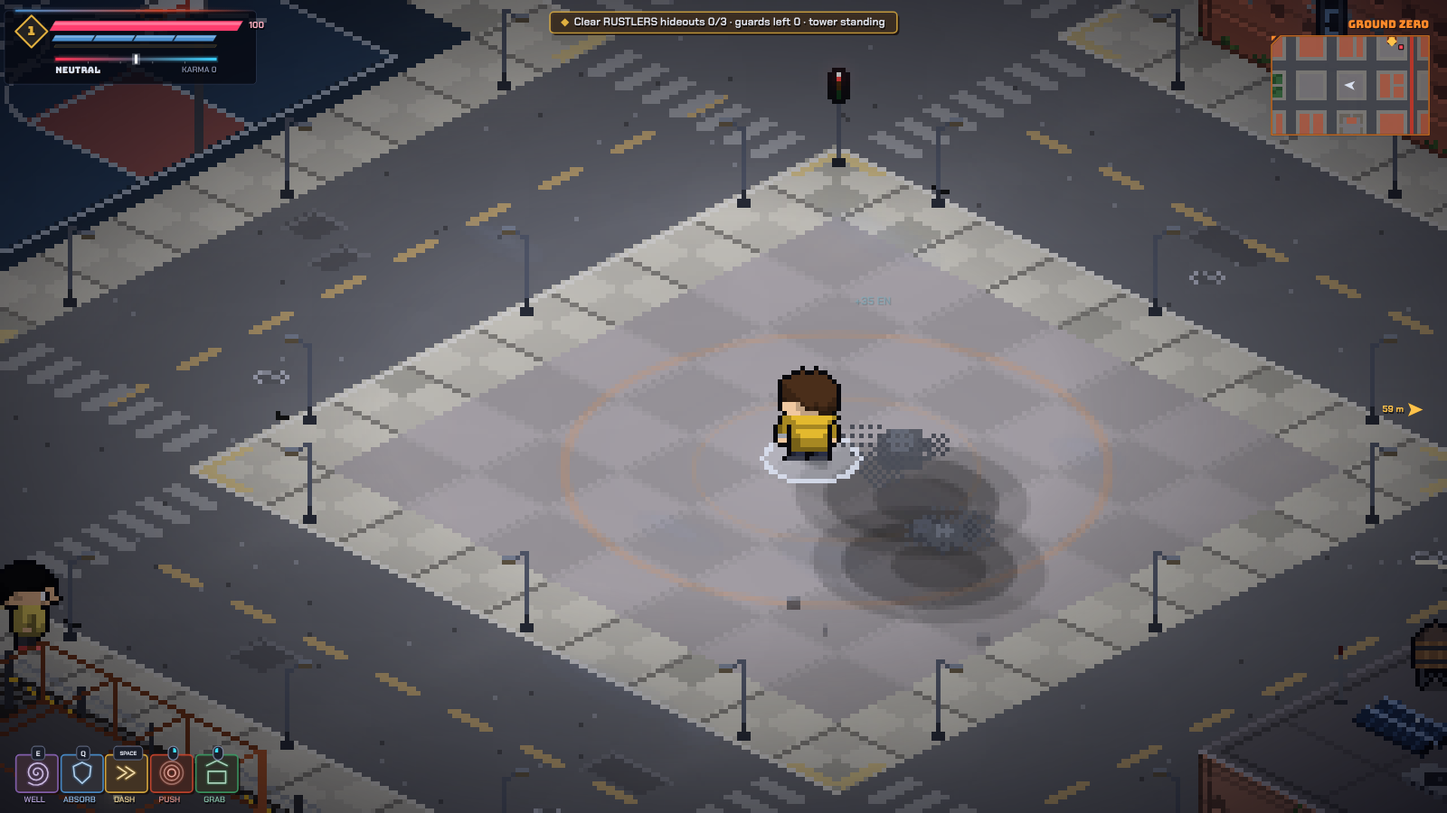
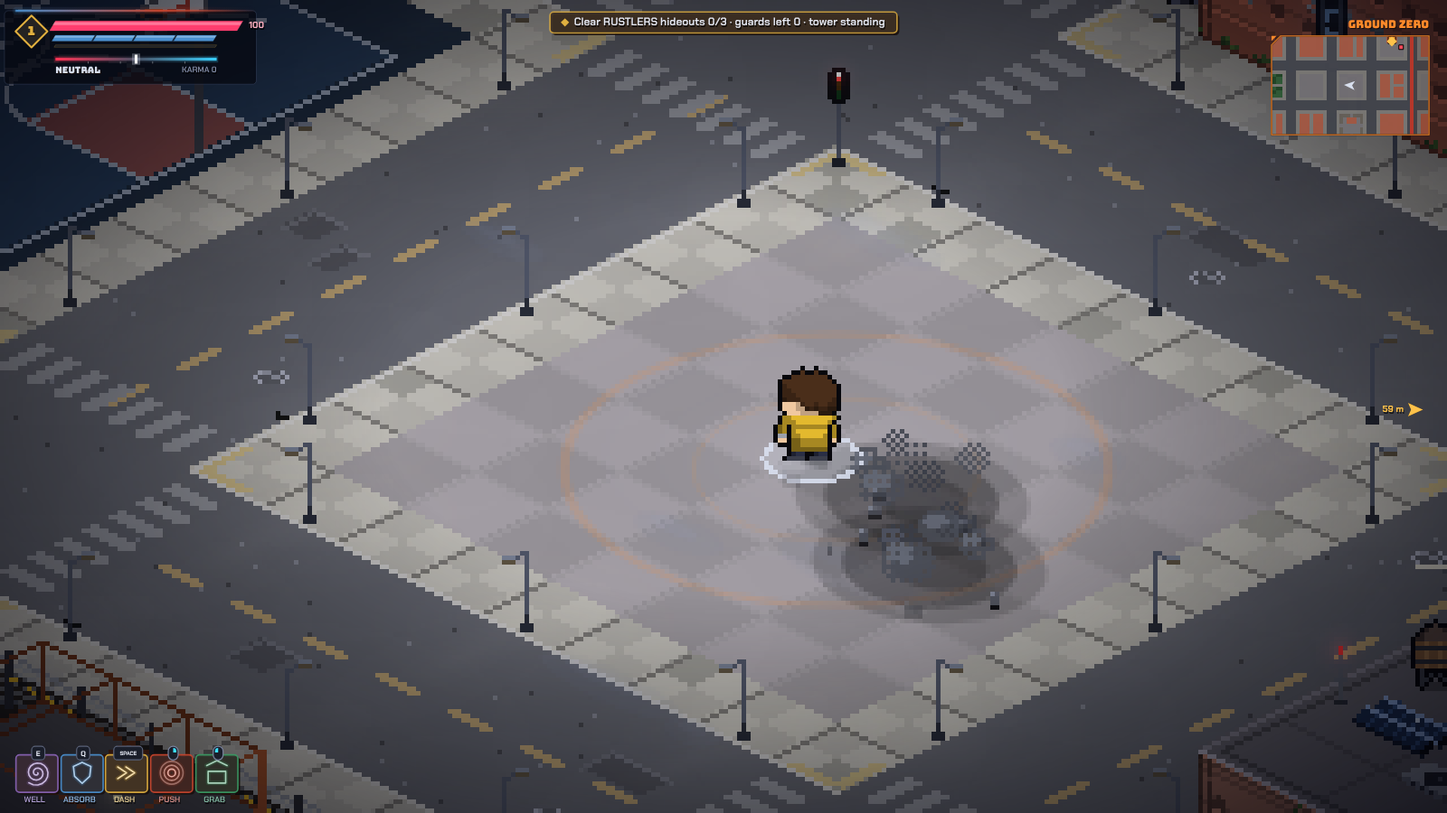
Machines redrawn in the isometric view
The first machines were flat front-on drawings that did not match the
world. They are now built from oriented boxes like the crates, cars and
dumpsters, so they sit in the same projection and turn with the
direction they face.

Claude-Session: https://claude.ai/code/session_01TQrqJid8SEs5fJFtrpg3VS

diff --git a/dist/gravitation.html b/dist/gravitation.html
@@ -8247,81 +8247,83 @@ function drawPickup(p) {
 /* ============================== 11k MACHINES: DRAWING ============================== */
 /* Small hand-placed pixel drawings for the machines in 09c, plus lightning and downed power lines. Each machine is
    drawn around its ground point; flyers hover above a shadow. Hit flash = white. */
-function mr(x, y, w, h, c) { ctx.fillStyle = c; ctx.fillRect(Math.round(x), Math.round(y), w, h); }
-function solarLid(x, y, w, h) { mr(x - 1, y - 1, w + 2, h + 2, '#0a0c12'); mr(x, y, w, h, '#1c2e50'); for (let i = 2; i < w; i += 3) mr(x + i, y, 1, h, '#2f4a7a'); mr(x, y, w, 1, '#8aa6d8'); }
+/* All machines are built the same way as the crates, cars and dumpsters: oriented boxes (pixBox) in the iso view, so
+   they turn with the direction they face and sit in the world like everything else. */
+function mframe(e, lift = 0) { const f = propFrame(e); return lift ? (lx, ly, h) => f(lx, ly, h + lift) : f; }
+function mshadow(e, rx, ry) { const c = isoXY(e.x, e.y, 0); ctx.globalAlpha = .35; iellipse(c[0], c[1], rx, ry, '#000'); ctx.globalAlpha = 1; }
+const MCOL = c => c;
+function solarTop(tp, u0 = .08, u1 = .92, v0 = .08, v1 = .92) {   // a solar panel laid on a box's top: dark cells, a lit front edge
+  ipoly([tp(u0, v0), tp(u1, v0), tp(u1, v1), tp(u0, v1)], '#1c2e50');
+  for (let k = 1; k < 4; k++) { const u = lerp(u0, u1, k / 4); iline(tp(u, v0), tp(u, v1), '#2f4a7a'); }
+  iline(tp(u0, v0), tp(u0, v1), '#8aa6d8');
+}
 function drawMachine(e) {
-  const a = isoXY(e.x, e.y, 0), X = Math.round(a[0]), Y = Math.round(a[1]), t = G.time, fl = e.flash > 0, k = e.kind;
-  const sx = Math.cos(e.ang || 0) - Math.sin(e.ang || 0) >= 0 ? 1 : -1;   // facing right or left on screen
-  const W = c => fl ? '#ffffff' : c;
-  if (k === 'cell') {   // battery bank: a chunky case, two terminals, charge bars, a warning label
-    mr(X - 7, Y - 11, 14, 12, '#07080c'); mr(X - 6, Y - 10, 12, 10, W('#3a4a3a')); mr(X - 6, Y - 10, 12, 2, W('#5a6e58')); mr(X + 3, Y - 9, 3, 9, W('#2a362a'));
-    mr(X - 4, Y - 13, 2, 3, '#9aa0aa'); mr(X + 2, Y - 13, 2, 3, '#c8503a');
-    const lvl = 2 + ((t * 1.5 + e.id) % 3 | 0); for (let i = 0; i < 4; i++) mr(X - 4 + i * 2, Y - 6, 1, 3, i < lvl ? '#e0c040' : '#1a2018');
-    mr(X - 4, Y - 3, 6, 1, '#e0b020'); if (e.hp < e.maxhp && Math.random() < .3) FX.sparks(e.x, e.y, 1, ZAP_COL, 90);
+  const t = G.time, fl = e.flash > 0, k = e.kind, W = c => fl ? '#ffffff' : c;
+  if (k === 'cell') {      // battery bank: a squat case, two terminals, charge bars on the side
+    const P3 = mframe(e); mshadow(e, 8, 4);
+    const lvl = 2 + ((t * 1.5 + e.id) % 3 | 0);
+    pixBox(e, P3, 0, 14, 12, 0, 12, W('#4a5c48'), W('#5e7258'), (i, quad, line, kk) => {
+      if (i !== 0 && i !== 1) return;
+      for (let q = 0; q < 4; q++) quad(i, .2 + q * .16, .3 + q * .16, 4, 8, q < lvl ? '#e0c040' : '#1a2018');
+      quad(i, .15, .85, 1.5, 2.6, '#e0b020');
+    }, tp => { ipoly([tp(.25, .2), tp(.4, .2), tp(.4, .35), tp(.25, .35)], '#9aa0aa'); ipoly([tp(.25, .65), tp(.4, .65), tp(.4, .8), tp(.25, .8)], '#c8503a'); });
+    for (const v of [-3, 3]) { const p = P3(2, v, 12), q = P3(2, v, 14.5); iline(p, q, v < 0 ? '#9aa0aa' : '#c8503a'); }
+    if (e.hp < e.maxhp && Math.random() < .3) FX.sparks(e.x, e.y, 1, ZAP_COL, 90);
     return;
   }
-  if (k === 'sweeper') {   // municipal street sweeper: orange body, solar lid, spinning brushes, amber beacon
-    const b = (Math.floor(e.walk * 4) & 1);
-    mr(X - 2, Y - 1, 10, 2, 'rgba(0,0,0,.35)');
-    mr(X - 8, Y - 10, 16, 9, '#07080c'); mr(X - 7, Y - 9, 14, 7, W('#e0a030')); mr(X - 7, Y - 3, 14, 1, W('#a8701c')); mr(X - 7, Y - 9, 14, 1, W('#f0c060'));
-    mr(X - 5 + (sx > 0 ? 6 : 0), Y - 7, 3, 2, '#2a2a32');   // a little window
-    solarLid(X - 6, Y - 13, 12, 3);
-    for (const bx of [X + sx * 7, X + sx * 4]) { mr(bx - 1, Y - 2, 3, 3, '#3a3228'); mr(bx - 1 + b, Y - 2, 1, 1, '#c8b890'); mr(bx + 1 - b, Y, 1, 1, '#c8b890'); }
-    const on = Math.sin(t * 6 + e.id) > 0; mr(X - 1, Y - 15, 2, 2, on ? '#ffb030' : '#6a4a1a'); if (on) iglow(X, Y - 14, 5, '#ffb030', .45);
+  if (k === 'sweeper') {   // street sweeper: a rounded orange cart, a solar lid, two brushes spinning at the front
+    const P3 = mframe(e); mshadow(e, 9, 4.5);
+    const b = Math.floor(e.walk * 4) & 1;
+    for (const v of [-6, 6]) { const c = P3(10, v, 1.5); idisc(c[0], c[1], 2.4, '#3a3228'); ipx(c[0] + (b ? 1 : -1), c[1], '#c8b890'); ipx(c[0], c[1] + (b ? -1 : 1), '#c8b890'); }
+    pixBox(e, P3, -1, 18, 13, 1, 10, W('#e0a030'), W('#f0c060'), (i, quad) => { quad(i, 0, 1, 1, 2.2, W('#a8701c')); if (i === 0) quad(i, .3, .7, 5, 8, '#2a2a32'); }, tp => solarTop(tp));
+    const on = Math.sin(t * 6 + e.id) > 0, bp = P3(-6, 0, 13); iline(P3(-6, 0, 10), bp, '#4a4e5a'); ipx(bp[0], bp[1], on ? '#ffb030' : '#6a4a1a'); if (on) iglow(bp[0], bp[1], 5, '#ffb030', .45);
     return;
   }
-  if (k === 'zapper' || k === 'mite') {   // flyers: hover over a shadow
-    const small = k === 'mite', hov = (e.def.hover || 20) + Math.sin(t * 5 + e.id) * 1.5, hy = Y - Math.round(hov * .5);
-    ctx.globalAlpha = .35; iellipse(X, Y, small ? 3 : 6, small ? 1.5 : 3, '#000'); ctx.globalAlpha = 1;
+  if (k === 'zapper') {    // spark drone: a body box with four rotor arms, solar deck on top, a coil underneath; hovers
+    const hov = (e.def.hover || 22) + Math.sin(t * 5 + e.id) * 1.5, P3 = mframe(e, hov); mshadow(e, 7, 3.5);
+    const spin = Math.floor(t * 30) & 1, arms = [[7, 7], [7, -7], [-7, 7], [-7, -7]];
+    for (const [ax, ay] of arms) { iline(P3(0, 0, 4), P3(ax, ay, 4), '#3a3e4a'); const c = P3(ax, ay, 5.5); iellipse(c[0], c[1], 3.5, 1.5, spin ? 'rgba(200,204,214,.75)' : 'rgba(122,127,140,.75)'); ipx(c[0], c[1], '#2a2d36'); }
+    const ch = e.chargeT > 0 ? 1 - e.chargeT / .75 : 0, coil = P3(0, 0, -1.5);
+    pixBox(e, P3, 0, 10, 10, 0, 7, W('#b8bcc6'), W('#c8ccd6'), (i, quad) => { quad(i, 0, 1, 0, 1.4, W('#6a6e78')); if (i === 0) quad(i, .4, .6, 3.5, 5, '#ff5a3a'); }, tp => solarTop(tp));
+    ipx(coil[0], coil[1], ch > 0 ? (Math.random() < ch ? '#ffffff' : ZAP_COL) : '#5a5040'); ipx(coil[0], coil[1] + 1, ch > 0 ? ZAP_COL : '#3a3428');
+    if (ch > 0) { iglow(coil[0], coil[1], 6 + ch * 8, '#fff0b0', .5 + ch * .4); if (Math.random() < .5) zapFx(e.x, e.y, e.x + rnd(-10, 10), e.y + rnd(-10, 10), .06); }
+    return;
+  }
+  if (k === 'mite') {      // mite: a tiny box with two rotors and a blinking eye
+    const hov = (e.def.hover || 12) + Math.sin(t * 7 + e.id) * 1.2, P3 = mframe(e, hov); mshadow(e, 3, 1.5);
     const spin = Math.floor(t * 30) & 1;
-    if (small) {
-      mr(X - 3, hy - 2, 7, 4, '#07080c'); mr(X - 2, hy - 1, 5, 2, W('#8a8e98')); mr(X - 1, hy - 3, 3, 1, '#1c2e50');
-      mr(X - 4, hy - 3 + spin, 2, 1, '#c8ccd6'); mr(X + 3, hy - 2 - spin, 2, 1, '#c8ccd6'); mr(X, hy + 1, 1, 1, Math.sin(t * 9 + e.id) > 0 ? '#ff5a3a' : '#5a1a10');
-      return;
-    }
-    // spark drone: four rotors on arms, a solar deck on top, a coil underneath that glows as it charges
-    for (const [ox, oy] of [[-8, -4], [8, -4], [-6, 1], [6, 1]]) { mr(X + ox - 3, hy + oy - 1, 6, 1, spin ? '#c8ccd6' : '#7a7f8c'); mr(X + ox, hy + oy, 1, 2, '#3a3e4a'); }
-    mr(X - 7, hy - 3, 14, 1, '#3a3e4a'); mr(X - 5, hy - 5, 10, 8, '#07080c'); mr(X - 4, hy - 4, 8, 6, W('#b8bcc6')); mr(X - 4, hy + 1, 8, 1, W('#6a6e78'));
-    solarLid(X - 4, hy - 7, 8, 2);
-    const ch = e.chargeT > 0 ? 1 - e.chargeT / .75 : 0; mr(X - 1, hy + 2, 3, 3, ch > 0 ? (Math.random() < ch ? '#ffffff' : ZAP_COL) : '#5a5040');
-    if (ch > 0) { iglow(X, hy + 4, 6 + ch * 8, '#fff0b0', .5 + ch * .4); if (Math.random() < .5) zapFx(e.x, e.y, e.x + rnd(-10, 10), e.y + rnd(-10, 10), .06); }
-    mr(X + sx * 3, hy - 2, 1, 1, '#ff5a3a');
+    for (const v of [-4, 4]) { const c = P3(0, v, 4); iellipse(c[0], c[1], 2, 1, spin ? '#c8ccd6' : '#7a7f8c'); }
+    pixBox(e, P3, 0, 6, 5, 0, 4, W('#8a8e98'), W('#9aa0aa'), (i, quad) => { if (i === 0) quad(i, .35, .65, 1.5, 3, Math.sin(t * 9 + e.id) > 0 ? '#ff5a3a' : '#5a1a10'); });
     return;
   }
-  if (k === 'crawler') {   // repo crawler: low body on four legs, a battery pack on its back, one red eye
-    const armed = e.state === 'arm', g = Math.floor(e.walk * 3) & 1;
-    mr(X - 7, Y - 1, 14, 2, 'rgba(0,0,0,.35)');
-    for (const [lx, ph] of [[-6, 0], [-2, 1], [2, 0], [6, 1]]) { const up = (ph ^ g) ? 1 : 0; mr(X + lx, Y - 4 - up, 1, 4 + up, '#2a2d36'); mr(X + lx + (lx < 0 ? -1 : 1), Y - 1, 1, 1, '#2a2d36'); }
-    mr(X - 7, Y - 9, 14, 6, '#07080c'); mr(X - 6, Y - 8, 12, 4, W('#4a5240')); mr(X - 6, Y - 8, 12, 1, W('#6a7458'));
-    mr(X - 4, Y - 11, 8, 3, '#07080c'); mr(X - 3, Y - 10, 6, 2, W(armed && Math.sin(t * 30) > 0 ? '#ffffff' : '#c89a28')); mr(X - 3, Y - 10, 1, 2, '#1a1a1a'); mr(X + 1, Y - 10, 1, 2, '#1a1a1a');
-    mr(X + sx * 6, Y - 7, 1, 1, '#ff3a2a'); if (armed) iglow(X, Y - 8, 14, '#fff0b0', .6);
+  if (k === 'crawler') {   // repo crawler: a low body on four legs, a battery pack on its back
+    const armed = e.state === 'arm', g = Math.floor(e.walk * 3) & 1, P3 = mframe(e); mshadow(e, 9, 4.5);
+    for (const [lx, ly, ph] of [[6, 6, 0], [6, -6, 1], [-6, 6, 1], [-6, -6, 0]]) { const up = (ph ^ g) ? 2 : 0, hip = P3(lx * .6, ly * .6, 6), knee = P3(lx, ly * 1.2, 7 + up), foot = P3(lx * 1.1, ly * 1.3, up * .5); iline(hip, knee, '#2a2d36'); iline(knee, foot, '#2a2d36'); }
+    pixBox(e, P3, 0, 16, 11, 5, 10, W('#4a5240'), W('#6a7458'), (i, quad) => { if (i === 0) quad(i, .42, .58, 7, 8.5, '#ff3a2a'); });
+    pixBox(e, P3, -1, 9, 7, 10, 13, W(armed && Math.sin(t * 30) > 0 ? '#ffffff' : '#c89a28'), W(armed && Math.sin(t * 30) > 0 ? '#ffffff' : '#e0b040'), (i, quad) => { quad(i, .3, .38, 10, 13, '#1a1a1a'); quad(i, .62, .7, 10, 13, '#1a1a1a'); });
+    if (armed) { const c = P3(0, 0, 9); iglow(c[0], c[1], 14, '#fff0b0', .6); }
     return;
   }
-  if (k === 'sentry') {    // sentry post: a tripod, a small solar panel, a turret that swivels
-    mr(X - 6, Y - 1, 12, 1, 'rgba(0,0,0,.35)');
-    for (const lx of [-5, 0, 5]) iline([X, Y - 10], [X + lx, Y], '#3a3e4a');
-    mr(X - 1, Y - 16, 3, 7, '#4a4e5a');
-    const c = Math.cos(e.ang || 0), s = Math.sin(e.ang || 0), gx = c - s, gy = (c + s) / 2, gl = Math.hypot(gx, gy) || 1;
-    mr(X - 4, Y - 20, 9, 6, '#07080c'); mr(X - 3, Y - 19, 7, 4, W('#7a7462')); mr(X - 3, Y - 19, 7, 1, W('#9a9480'));
-    iline([X + .5, Y - 17], [X + gx / gl * 8, Y - 17 + gy / gl * 4], '#202228');
-    solarLid(X - 5, Y - 24, 10, 2);
-    const lit = e.aimT > 0; mr(X, Y - 18, 1, 1, lit ? '#ff4030' : '#5a1a10');
-    if (lit) { const L = 120, ex = e.x + Math.cos(e.ang) * L, ey = e.y + Math.sin(e.ang) * L, p = isoXY(ex, ey, 0); ctx.globalAlpha = .55; iline([X, Y - 17], [p[0], p[1] - 17 * (1 - .9)], '#ff4030'); ctx.globalAlpha = 1; }
-    if (e.hp < e.maxhp) { const bw = 12, bx = X - 6, by = Y - 28; mr(bx - 1, by - 1, bw + 2, 3, 'rgba(0,0,0,.7)'); mr(bx, by, Math.max(0, Math.round(bw * e.hp / e.maxhp)), 1, '#ff3d5a'); }
+  if (k === 'sentry') {    // sentry post: a tripod of steel legs, a column, a turret box that swivels, a solar panel on top
+    const P0 = propFrame({ x: e.x, y: e.y, ang: 0, z: 0 }), P3 = mframe(e); mshadow(e, 8, 4);
+    for (const a of [0, 2.09, 4.19]) iline(P0(0, 0, 12), P0(Math.cos(a) * 8, Math.sin(a) * 8, 0), '#3a3e4a');
+    iline(P0(0, 0, 12), P0(0, 0, 18), '#4a4e5a');
+    pixBox(e, P3, 0, 12, 9, 18, 25, W('#7a7462'), W('#9a9480'), (i, quad) => { if (i === 0) quad(i, .4, .6, 21, 23, e.aimT > 0 ? '#ff4030' : '#5a1a10'); }, tp => solarTop(tp, .15, .85, .1, .9));
+    iline(P3(6, 0, 21.5), P3(14, 0, 21.5), '#202228'); iline(P3(6, 0, 20.5), P3(14, 0, 20.5), '#3a3c44');   // barrel
+    if (e.aimT > 0) { const a2 = isoXY(e.x + Math.cos(e.ang) * 14, e.y + Math.sin(e.ang) * 14, 0), L = isoXY(e.x + Math.cos(e.ang) * 130, e.y + Math.sin(e.ang) * 130, 0), m = P3(14, 0, 21); ctx.globalAlpha = .55; iline(m, [L[0], L[1] - (m[1] - a2[1]) * .2], '#ff4030'); ctx.globalAlpha = 1; }
+    if (e.hp < e.maxhp) { const top = P3(0, 0, 31), bw = 12, bx = Math.round(top[0] - 6), by = Math.round(top[1]); ctx.fillStyle = 'rgba(0,0,0,.7)'; ctx.fillRect(bx - 1, by - 1, bw + 2, 3); ctx.fillStyle = '#ff3d5a'; ctx.fillRect(bx, by, Math.max(0, Math.round(bw * e.hp / e.maxhp)), 1); }
     return;
   }
-  if (k === 'loader') {    // loader mech: a caged cab on two hydraulic legs, big claws, solar panels on its back
-    const g = Math.floor(e.walk * 2) & 1, raise = e.state === 'slamWind' ? -4 : 0, lean = e.state === 'chargeWind' || e.state === 'charging' ? sx * 2 : 0;
-    mr(X - 10, Y - 1, 20, 2, 'rgba(0,0,0,.35)');
-    for (const [lx, ph] of [[-5, 0], [4, 1]]) { const up = (ph ^ g) ? 2 : 0; mr(X + lx - 1, Y - 12 - up, 4, 12 + up, '#07080c'); mr(X + lx, Y - 11 - up, 2, 11 + up, '#5a5e6a'); mr(X + lx - 2, Y - 2, 6, 2, '#2a2d36'); }
-    const cx = X + lean, cy = Y - 26;
-    solarLid(cx - 9 - sx * 2, cy - 5, 14, 3);
-    mr(cx - 9, cy - 2, 18, 15, '#07080c'); mr(cx - 8, cy - 1, 16, 13, W('#d8a838')); mr(cx - 8, cy - 1, 16, 1, W('#f0c860'));
-    for (let i = 0; i < 16; i += 4) { mr(cx - 8 + i, cy + 10, 2, 2, '#1a1608'); }   // hazard stripes
-    mr(cx - 5 + sx * 2, cy + 1, 8, 6, '#1a2028'); mr(cx - 4 + sx * 2, cy + 2, 6, 1, '#4a5868'); mr(cx - 4 + sx * 2, cy + 2, 1, 4, '#2a3440');   // caged window
-    for (const ax of [-1, 1]) { const arm = cx + ax * 11, ay = cy + 4 + raise; mr(arm - 2, ay - 1, 4, 9, '#07080c'); mr(arm - 1, ay, 2, 7, W('#8a8e98')); mr(arm - 3, ay + 7, 6, 3, '#3a3e4a'); mr(arm - 3, ay + 9, 1, 2, '#3a3e4a'); mr(arm + 2, ay + 9, 1, 2, '#3a3e4a'); }
-    const on = Math.sin(t * 5 + e.id) > 0; mr(cx - 1, cy - 7, 2, 2, on ? '#ffb030' : '#6a4a1a');
-    if (e.hp < e.maxhp && (e.sinceHit || 0) < 4) { const bw = 20, bx = X - 10, by = cy - 11; mr(bx - 1, by - 1, bw + 2, 3, 'rgba(0,0,0,.7)'); mr(bx, by, Math.max(0, Math.round(bw * e.hp / e.maxhp)), 1, '#ff3d5a'); }
+  if (k === 'loader') {    // loader mech: two hydraulic legs, a caged cab, two claw arms, solar panels on its back
+    const g = Math.floor(e.walk * 2) & 1, raise = e.state === 'slamWind' ? 6 : 0, lean = e.state === 'chargeWind' || e.state === 'charging' ? 3 : 0, P3 = mframe(e); mshadow(e, 14, 7);
+    for (const [ly, ph] of [[-6, 0], [6, 1]]) { const up = (ph ^ g) ? 3 : 0; pixBox(e, P3, up * .6, 6, 5, 0, 2, W('#2a2d36'), W('#3a3e4a')); pixBox(e, P3, 0, 4, 4, 2 + up, 18, W('#5a5e6a'), W('#6a6e7a')); }
+    pixBox(e, P3, lean, 20, 22, 18, 34, W('#d8a838'), W('#e8c050'), (i, quad) => {
+      quad(i, 0, 1, 18, 20.5, '#1a1608'); for (let q = 0; q < 1; q += .2) quad(i, q, q + .1, 18, 20.5, '#e0b020');   // hazard stripes
+      if (i === 0) { quad(i, .25, .75, 24, 31, '#1a2028'); quad(i, .25, .75, 30, 31, '#4a5868'); quad(i, .48, .52, 24, 31, '#4a5868'); }   // caged window
+    }, tp => solarTop(tp, .3, .95, .1, .9));
+    for (const ay of [-14, 14]) { pixBox(e, P3, lean + 4, 6, 5, 18 + raise, 30 + raise, W('#8a8e98'), W('#9aa0aa')); pixBox(e, P3, lean + 9, 6, 7, 14 + raise, 19 + raise, W('#3a3e4a'), W('#4a4e5a')); }
+    const on = Math.sin(t * 5 + e.id) > 0, bc = P3(-4, 0, 37); iline(P3(-4, 0, 34), bc, '#4a4e5a'); ipx(bc[0], bc[1], on ? '#ffb030' : '#6a4a1a'); if (on) iglow(bc[0], bc[1], 5, '#ffb030', .4);
+    if (e.hp < e.maxhp && (e.sinceHit || 0) < 4) { const top = P3(0, 0, 44), bw = 20, bx = Math.round(top[0] - 10), by = Math.round(top[1]); ctx.fillStyle = 'rgba(0,0,0,.7)'; ctx.fillRect(bx - 1, by - 1, bw + 2, 3); ctx.fillStyle = '#ff3d5a'; ctx.fillRect(bx, by, Math.max(0, Math.round(bw * e.hp / e.maxhp)), 1); }
     e.sinceHit = (e.sinceHit || 0) + 1 / 60;
   }
 }

diff --git a/src/js/11k_machines.js b/src/js/11k_machines.js
@@ -1,81 +1,83 @@
 /* ============================== 11k MACHINES: DRAWING ============================== */
 /* Small hand-placed pixel drawings for the machines in 09c, plus lightning and downed power lines. Each machine is
    drawn around its ground point; flyers hover above a shadow. Hit flash = white. */
-function mr(x, y, w, h, c) { ctx.fillStyle = c; ctx.fillRect(Math.round(x), Math.round(y), w, h); }
-function solarLid(x, y, w, h) { mr(x - 1, y - 1, w + 2, h + 2, '#0a0c12'); mr(x, y, w, h, '#1c2e50'); for (let i = 2; i < w; i += 3) mr(x + i, y, 1, h, '#2f4a7a'); mr(x, y, w, 1, '#8aa6d8'); }
+/* All machines are built the same way as the crates, cars and dumpsters: oriented boxes (pixBox) in the iso view, so
+   they turn with the direction they face and sit in the world like everything else. */
+function mframe(e, lift = 0) { const f = propFrame(e); return lift ? (lx, ly, h) => f(lx, ly, h + lift) : f; }
+function mshadow(e, rx, ry) { const c = isoXY(e.x, e.y, 0); ctx.globalAlpha = .35; iellipse(c[0], c[1], rx, ry, '#000'); ctx.globalAlpha = 1; }
+const MCOL = c => c;
+function solarTop(tp, u0 = .08, u1 = .92, v0 = .08, v1 = .92) {   // a solar panel laid on a box's top: dark cells, a lit front edge
+  ipoly([tp(u0, v0), tp(u1, v0), tp(u1, v1), tp(u0, v1)], '#1c2e50');
+  for (let k = 1; k < 4; k++) { const u = lerp(u0, u1, k / 4); iline(tp(u, v0), tp(u, v1), '#2f4a7a'); }
+  iline(tp(u0, v0), tp(u0, v1), '#8aa6d8');
+}
 function drawMachine(e) {
-  const a = isoXY(e.x, e.y, 0), X = Math.round(a[0]), Y = Math.round(a[1]), t = G.time, fl = e.flash > 0, k = e.kind;
-  const sx = Math.cos(e.ang || 0) - Math.sin(e.ang || 0) >= 0 ? 1 : -1;   // facing right or left on screen
-  const W = c => fl ? '#ffffff' : c;
-  if (k === 'cell') {   // battery bank: a chunky case, two terminals, charge bars, a warning label
-    mr(X - 7, Y - 11, 14, 12, '#07080c'); mr(X - 6, Y - 10, 12, 10, W('#3a4a3a')); mr(X - 6, Y - 10, 12, 2, W('#5a6e58')); mr(X + 3, Y - 9, 3, 9, W('#2a362a'));
-    mr(X - 4, Y - 13, 2, 3, '#9aa0aa'); mr(X + 2, Y - 13, 2, 3, '#c8503a');
-    const lvl = 2 + ((t * 1.5 + e.id) % 3 | 0); for (let i = 0; i < 4; i++) mr(X - 4 + i * 2, Y - 6, 1, 3, i < lvl ? '#e0c040' : '#1a2018');
-    mr(X - 4, Y - 3, 6, 1, '#e0b020'); if (e.hp < e.maxhp && Math.random() < .3) FX.sparks(e.x, e.y, 1, ZAP_COL, 90);
+  const t = G.time, fl = e.flash > 0, k = e.kind, W = c => fl ? '#ffffff' : c;
+  if (k === 'cell') {      // battery bank: a squat case, two terminals, charge bars on the side
+    const P3 = mframe(e); mshadow(e, 8, 4);
+    const lvl = 2 + ((t * 1.5 + e.id) % 3 | 0);
+    pixBox(e, P3, 0, 14, 12, 0, 12, W('#4a5c48'), W('#5e7258'), (i, quad, line, kk) => {
+      if (i !== 0 && i !== 1) return;
+      for (let q = 0; q < 4; q++) quad(i, .2 + q * .16, .3 + q * .16, 4, 8, q < lvl ? '#e0c040' : '#1a2018');
+      quad(i, .15, .85, 1.5, 2.6, '#e0b020');
+    }, tp => { ipoly([tp(.25, .2), tp(.4, .2), tp(.4, .35), tp(.25, .35)], '#9aa0aa'); ipoly([tp(.25, .65), tp(.4, .65), tp(.4, .8), tp(.25, .8)], '#c8503a'); });
+    for (const v of [-3, 3]) { const p = P3(2, v, 12), q = P3(2, v, 14.5); iline(p, q, v < 0 ? '#9aa0aa' : '#c8503a'); }
+    if (e.hp < e.maxhp && Math.random() < .3) FX.sparks(e.x, e.y, 1, ZAP_COL, 90);
     return;
   }
-  if (k === 'sweeper') {   // municipal street sweeper: orange body, solar lid, spinning brushes, amber beacon
-    const b = (Math.floor(e.walk * 4) & 1);
-    mr(X - 2, Y - 1, 10, 2, 'rgba(0,0,0,.35)');
-    mr(X - 8, Y - 10, 16, 9, '#07080c'); mr(X - 7, Y - 9, 14, 7, W('#e0a030')); mr(X - 7, Y - 3, 14, 1, W('#a8701c')); mr(X - 7, Y - 9, 14, 1, W('#f0c060'));
-    mr(X - 5 + (sx > 0 ? 6 : 0), Y - 7, 3, 2, '#2a2a32');   // a little window
-    solarLid(X - 6, Y - 13, 12, 3);
-    for (const bx of [X + sx * 7, X + sx * 4]) { mr(bx - 1, Y - 2, 3, 3, '#3a3228'); mr(bx - 1 + b, Y - 2, 1, 1, '#c8b890'); mr(bx + 1 - b, Y, 1, 1, '#c8b890'); }
-    const on = Math.sin(t * 6 + e.id) > 0; mr(X - 1, Y - 15, 2, 2, on ? '#ffb030' : '#6a4a1a'); if (on) iglow(X, Y - 14, 5, '#ffb030', .45);
+  if (k === 'sweeper') {   // street sweeper: a rounded orange cart, a solar lid, two brushes spinning at the front
+    const P3 = mframe(e); mshadow(e, 9, 4.5);
+    const b = Math.floor(e.walk * 4) & 1;
+    for (const v of [-6, 6]) { const c = P3(10, v, 1.5); idisc(c[0], c[1], 2.4, '#3a3228'); ipx(c[0] + (b ? 1 : -1), c[1], '#c8b890'); ipx(c[0], c[1] + (b ? -1 : 1), '#c8b890'); }
+    pixBox(e, P3, -1, 18, 13, 1, 10, W('#e0a030'), W('#f0c060'), (i, quad) => { quad(i, 0, 1, 1, 2.2, W('#a8701c')); if (i === 0) quad(i, .3, .7, 5, 8, '#2a2a32'); }, tp => solarTop(tp));
+    const on = Math.sin(t * 6 + e.id) > 0, bp = P3(-6, 0, 13); iline(P3(-6, 0, 10), bp, '#4a4e5a'); ipx(bp[0], bp[1], on ? '#ffb030' : '#6a4a1a'); if (on) iglow(bp[0], bp[1], 5, '#ffb030', .45);
     return;
   }
-  if (k === 'zapper' || k === 'mite') {   // flyers: hover over a shadow
-    const small = k === 'mite', hov = (e.def.hover || 20) + Math.sin(t * 5 + e.id) * 1.5, hy = Y - Math.round(hov * .5);
-    ctx.globalAlpha = .35; iellipse(X, Y, small ? 3 : 6, small ? 1.5 : 3, '#000'); ctx.globalAlpha = 1;
+  if (k === 'zapper') {    // spark drone: a body box with four rotor arms, solar deck on top, a coil underneath; hovers
+    const hov = (e.def.hover || 22) + Math.sin(t * 5 + e.id) * 1.5, P3 = mframe(e, hov); mshadow(e, 7, 3.5);
+    const spin = Math.floor(t * 30) & 1, arms = [[7, 7], [7, -7], [-7, 7], [-7, -7]];
+    for (const [ax, ay] of arms) { iline(P3(0, 0, 4), P3(ax, ay, 4), '#3a3e4a'); const c = P3(ax, ay, 5.5); iellipse(c[0], c[1], 3.5, 1.5, spin ? 'rgba(200,204,214,.75)' : 'rgba(122,127,140,.75)'); ipx(c[0], c[1], '#2a2d36'); }
+    const ch = e.chargeT > 0 ? 1 - e.chargeT / .75 : 0, coil = P3(0, 0, -1.5);
+    pixBox(e, P3, 0, 10, 10, 0, 7, W('#b8bcc6'), W('#c8ccd6'), (i, quad) => { quad(i, 0, 1, 0, 1.4, W('#6a6e78')); if (i === 0) quad(i, .4, .6, 3.5, 5, '#ff5a3a'); }, tp => solarTop(tp));
+    ipx(coil[0], coil[1], ch > 0 ? (Math.random() < ch ? '#ffffff' : ZAP_COL) : '#5a5040'); ipx(coil[0], coil[1] + 1, ch > 0 ? ZAP_COL : '#3a3428');
+    if (ch > 0) { iglow(coil[0], coil[1], 6 + ch * 8, '#fff0b0', .5 + ch * .4); if (Math.random() < .5) zapFx(e.x, e.y, e.x + rnd(-10, 10), e.y + rnd(-10, 10), .06); }
+    return;
+  }
+  if (k === 'mite') {      // mite: a tiny box with two rotors and a blinking eye
+    const hov = (e.def.hover || 12) + Math.sin(t * 7 + e.id) * 1.2, P3 = mframe(e, hov); mshadow(e, 3, 1.5);
     const spin = Math.floor(t * 30) & 1;
-    if (small) {
-      mr(X - 3, hy - 2, 7, 4, '#07080c'); mr(X - 2, hy - 1, 5, 2, W('#8a8e98')); mr(X - 1, hy - 3, 3, 1, '#1c2e50');
-      mr(X - 4, hy - 3 + spin, 2, 1, '#c8ccd6'); mr(X + 3, hy - 2 - spin, 2, 1, '#c8ccd6'); mr(X, hy + 1, 1, 1, Math.sin(t * 9 + e.id) > 0 ? '#ff5a3a' : '#5a1a10');
-      return;
-    }
-    // spark drone: four rotors on arms, a solar deck on top, a coil underneath that glows as it charges
-    for (const [ox, oy] of [[-8, -4], [8, -4], [-6, 1], [6, 1]]) { mr(X + ox - 3, hy + oy - 1, 6, 1, spin ? '#c8ccd6' : '#7a7f8c'); mr(X + ox, hy + oy, 1, 2, '#3a3e4a'); }
-    mr(X - 7, hy - 3, 14, 1, '#3a3e4a'); mr(X - 5, hy - 5, 10, 8, '#07080c'); mr(X - 4, hy - 4, 8, 6, W('#b8bcc6')); mr(X - 4, hy + 1, 8, 1, W('#6a6e78'));
-    solarLid(X - 4, hy - 7, 8, 2);
-    const ch = e.chargeT > 0 ? 1 - e.chargeT / .75 : 0; mr(X - 1, hy + 2, 3, 3, ch > 0 ? (Math.random() < ch ? '#ffffff' : ZAP_COL) : '#5a5040');
-    if (ch > 0) { iglow(X, hy + 4, 6 + ch * 8, '#fff0b0', .5 + ch * .4); if (Math.random() < .5) zapFx(e.x, e.y, e.x + rnd(-10, 10), e.y + rnd(-10, 10), .06); }
-    mr(X + sx * 3, hy - 2, 1, 1, '#ff5a3a');
+    for (const v of [-4, 4]) { const c = P3(0, v, 4); iellipse(c[0], c[1], 2, 1, spin ? '#c8ccd6' : '#7a7f8c'); }
+    pixBox(e, P3, 0, 6, 5, 0, 4, W('#8a8e98'), W('#9aa0aa'), (i, quad) => { if (i === 0) quad(i, .35, .65, 1.5, 3, Math.sin(t * 9 + e.id) > 0 ? '#ff5a3a' : '#5a1a10'); });
     return;
   }
-  if (k === 'crawler') {   // repo crawler: low body on four legs, a battery pack on its back, one red eye
-    const armed = e.state === 'arm', g = Math.floor(e.walk * 3) & 1;
-    mr(X - 7, Y - 1, 14, 2, 'rgba(0,0,0,.35)');
-    for (const [lx, ph] of [[-6, 0], [-2, 1], [2, 0], [6, 1]]) { const up = (ph ^ g) ? 1 : 0; mr(X + lx, Y - 4 - up, 1, 4 + up, '#2a2d36'); mr(X + lx + (lx < 0 ? -1 : 1), Y - 1, 1, 1, '#2a2d36'); }
-    mr(X - 7, Y - 9, 14, 6, '#07080c'); mr(X - 6, Y - 8, 12, 4, W('#4a5240')); mr(X - 6, Y - 8, 12, 1, W('#6a7458'));
-    mr(X - 4, Y - 11, 8, 3, '#07080c'); mr(X - 3, Y - 10, 6, 2, W(armed && Math.sin(t * 30) > 0 ? '#ffffff' : '#c89a28')); mr(X - 3, Y - 10, 1, 2, '#1a1a1a'); mr(X + 1, Y - 10, 1, 2, '#1a1a1a');
-    mr(X + sx * 6, Y - 7, 1, 1, '#ff3a2a'); if (armed) iglow(X, Y - 8, 14, '#fff0b0', .6);
+  if (k === 'crawler') {   // repo crawler: a low body on four legs, a battery pack on its back
+    const armed = e.state === 'arm', g = Math.floor(e.walk * 3) & 1, P3 = mframe(e); mshadow(e, 9, 4.5);
+    for (const [lx, ly, ph] of [[6, 6, 0], [6, -6, 1], [-6, 6, 1], [-6, -6, 0]]) { const up = (ph ^ g) ? 2 : 0, hip = P3(lx * .6, ly * .6, 6), knee = P3(lx, ly * 1.2, 7 + up), foot = P3(lx * 1.1, ly * 1.3, up * .5); iline(hip, knee, '#2a2d36'); iline(knee, foot, '#2a2d36'); }
+    pixBox(e, P3, 0, 16, 11, 5, 10, W('#4a5240'), W('#6a7458'), (i, quad) => { if (i === 0) quad(i, .42, .58, 7, 8.5, '#ff3a2a'); });
+    pixBox(e, P3, -1, 9, 7, 10, 13, W(armed && Math.sin(t * 30) > 0 ? '#ffffff' : '#c89a28'), W(armed && Math.sin(t * 30) > 0 ? '#ffffff' : '#e0b040'), (i, quad) => { quad(i, .3, .38, 10, 13, '#1a1a1a'); quad(i, .62, .7, 10, 13, '#1a1a1a'); });
+    if (armed) { const c = P3(0, 0, 9); iglow(c[0], c[1], 14, '#fff0b0', .6); }
     return;
   }
-  if (k === 'sentry') {    // sentry post: a tripod, a small solar panel, a turret that swivels
-    mr(X - 6, Y - 1, 12, 1, 'rgba(0,0,0,.35)');
-    for (const lx of [-5, 0, 5]) iline([X, Y - 10], [X + lx, Y], '#3a3e4a');
-    mr(X - 1, Y - 16, 3, 7, '#4a4e5a');
-    const c = Math.cos(e.ang || 0), s = Math.sin(e.ang || 0), gx = c - s, gy = (c + s) / 2, gl = Math.hypot(gx, gy) || 1;
-    mr(X - 4, Y - 20, 9, 6, '#07080c'); mr(X - 3, Y - 19, 7, 4, W('#7a7462')); mr(X - 3, Y - 19, 7, 1, W('#9a9480'));
-    iline([X + .5, Y - 17], [X + gx / gl * 8, Y - 17 + gy / gl * 4], '#202228');
-    solarLid(X - 5, Y - 24, 10, 2);
-    const lit = e.aimT > 0; mr(X, Y - 18, 1, 1, lit ? '#ff4030' : '#5a1a10');
-    if (lit) { const L = 120, ex = e.x + Math.cos(e.ang) * L, ey = e.y + Math.sin(e.ang) * L, p = isoXY(ex, ey, 0); ctx.globalAlpha = .55; iline([X, Y - 17], [p[0], p[1] - 17 * (1 - .9)], '#ff4030'); ctx.globalAlpha = 1; }
-    if (e.hp < e.maxhp) { const bw = 12, bx = X - 6, by = Y - 28; mr(bx - 1, by - 1, bw + 2, 3, 'rgba(0,0,0,.7)'); mr(bx, by, Math.max(0, Math.round(bw * e.hp / e.maxhp)), 1, '#ff3d5a'); }
+  if (k === 'sentry') {    // sentry post: a tripod of steel legs, a column, a turret box that swivels, a solar panel on top
+    const P0 = propFrame({ x: e.x, y: e.y, ang: 0, z: 0 }), P3 = mframe(e); mshadow(e, 8, 4);
+    for (const a of [0, 2.09, 4.19]) iline(P0(0, 0, 12), P0(Math.cos(a) * 8, Math.sin(a) * 8, 0), '#3a3e4a');
+    iline(P0(0, 0, 12), P0(0, 0, 18), '#4a4e5a');
+    pixBox(e, P3, 0, 12, 9, 18, 25, W('#7a7462'), W('#9a9480'), (i, quad) => { if (i === 0) quad(i, .4, .6, 21, 23, e.aimT > 0 ? '#ff4030' : '#5a1a10'); }, tp => solarTop(tp, .15, .85, .1, .9));
+    iline(P3(6, 0, 21.5), P3(14, 0, 21.5), '#202228'); iline(P3(6, 0, 20.5), P3(14, 0, 20.5), '#3a3c44');   // barrel
+    if (e.aimT > 0) { const a2 = isoXY(e.x + Math.cos(e.ang) * 14, e.y + Math.sin(e.ang) * 14, 0), L = isoXY(e.x + Math.cos(e.ang) * 130, e.y + Math.sin(e.ang) * 130, 0), m = P3(14, 0, 21); ctx.globalAlpha = .55; iline(m, [L[0], L[1] - (m[1] - a2[1]) * .2], '#ff4030'); ctx.globalAlpha = 1; }
+    if (e.hp < e.maxhp) { const top = P3(0, 0, 31), bw = 12, bx = Math.round(top[0] - 6), by = Math.round(top[1]); ctx.fillStyle = 'rgba(0,0,0,.7)'; ctx.fillRect(bx - 1, by - 1, bw + 2, 3); ctx.fillStyle = '#ff3d5a'; ctx.fillRect(bx, by, Math.max(0, Math.round(bw * e.hp / e.maxhp)), 1); }
     return;
   }
-  if (k === 'loader') {    // loader mech: a caged cab on two hydraulic legs, big claws, solar panels on its back
-    const g = Math.floor(e.walk * 2) & 1, raise = e.state === 'slamWind' ? -4 : 0, lean = e.state === 'chargeWind' || e.state === 'charging' ? sx * 2 : 0;
-    mr(X - 10, Y - 1, 20, 2, 'rgba(0,0,0,.35)');
-    for (const [lx, ph] of [[-5, 0], [4, 1]]) { const up = (ph ^ g) ? 2 : 0; mr(X + lx - 1, Y - 12 - up, 4, 12 + up, '#07080c'); mr(X + lx, Y - 11 - up, 2, 11 + up, '#5a5e6a'); mr(X + lx - 2, Y - 2, 6, 2, '#2a2d36'); }
-    const cx = X + lean, cy = Y - 26;
-    solarLid(cx - 9 - sx * 2, cy - 5, 14, 3);
-    mr(cx - 9, cy - 2, 18, 15, '#07080c'); mr(cx - 8, cy - 1, 16, 13, W('#d8a838')); mr(cx - 8, cy - 1, 16, 1, W('#f0c860'));
-    for (let i = 0; i < 16; i += 4) { mr(cx - 8 + i, cy + 10, 2, 2, '#1a1608'); }   // hazard stripes
-    mr(cx - 5 + sx * 2, cy + 1, 8, 6, '#1a2028'); mr(cx - 4 + sx * 2, cy + 2, 6, 1, '#4a5868'); mr(cx - 4 + sx * 2, cy + 2, 1, 4, '#2a3440');   // caged window
-    for (const ax of [-1, 1]) { const arm = cx + ax * 11, ay = cy + 4 + raise; mr(arm - 2, ay - 1, 4, 9, '#07080c'); mr(arm - 1, ay, 2, 7, W('#8a8e98')); mr(arm - 3, ay + 7, 6, 3, '#3a3e4a'); mr(arm - 3, ay + 9, 1, 2, '#3a3e4a'); mr(arm + 2, ay + 9, 1, 2, '#3a3e4a'); }
-    const on = Math.sin(t * 5 + e.id) > 0; mr(cx - 1, cy - 7, 2, 2, on ? '#ffb030' : '#6a4a1a');
-    if (e.hp < e.maxhp && (e.sinceHit || 0) < 4) { const bw = 20, bx = X - 10, by = cy - 11; mr(bx - 1, by - 1, bw + 2, 3, 'rgba(0,0,0,.7)'); mr(bx, by, Math.max(0, Math.round(bw * e.hp / e.maxhp)), 1, '#ff3d5a'); }
+  if (k === 'loader') {    // loader mech: two hydraulic legs, a caged cab, two claw arms, solar panels on its back
+    const g = Math.floor(e.walk * 2) & 1, raise = e.state === 'slamWind' ? 6 : 0, lean = e.state === 'chargeWind' || e.state === 'charging' ? 3 : 0, P3 = mframe(e); mshadow(e, 14, 7);
+    for (const [ly, ph] of [[-6, 0], [6, 1]]) { const up = (ph ^ g) ? 3 : 0; pixBox(e, P3, up * .6, 6, 5, 0, 2, W('#2a2d36'), W('#3a3e4a')); pixBox(e, P3, 0, 4, 4, 2 + up, 18, W('#5a5e6a'), W('#6a6e7a')); }
+    pixBox(e, P3, lean, 20, 22, 18, 34, W('#d8a838'), W('#e8c050'), (i, quad) => {
+      quad(i, 0, 1, 18, 20.5, '#1a1608'); for (let q = 0; q < 1; q += .2) quad(i, q, q + .1, 18, 20.5, '#e0b020');   // hazard stripes
+      if (i === 0) { quad(i, .25, .75, 24, 31, '#1a2028'); quad(i, .25, .75, 30, 31, '#4a5868'); quad(i, .48, .52, 24, 31, '#4a5868'); }   // caged window
+    }, tp => solarTop(tp, .3, .95, .1, .9));
+    for (const ay of [-14, 14]) { pixBox(e, P3, lean + 4, 6, 5, 18 + raise, 30 + raise, W('#8a8e98'), W('#9aa0aa')); pixBox(e, P3, lean + 9, 6, 7, 14 + raise, 19 + raise, W('#3a3e4a'), W('#4a4e5a')); }
+    const on = Math.sin(t * 5 + e.id) > 0, bc = P3(-4, 0, 37); iline(P3(-4, 0, 34), bc, '#4a4e5a'); ipx(bc[0], bc[1], on ? '#ffb030' : '#6a4a1a'); if (on) iglow(bc[0], bc[1], 5, '#ffb030', .4);
+    if (e.hp < e.maxhp && (e.sinceHit || 0) < 4) { const top = P3(0, 0, 44), bw = 20, bx = Math.round(top[0] - 10), by = Math.round(top[1]); ctx.fillStyle = 'rgba(0,0,0,.7)'; ctx.fillRect(bx - 1, by - 1, bw + 2, 3); ctx.fillStyle = '#ff3d5a'; ctx.fillRect(bx, by, Math.max(0, Math.round(bw * e.hp / e.maxhp)), 1); }
     e.sinceHit = (e.sinceHit || 0) + 1 / 60;
   }
 }

diff --git a/HANDOFF.md b/HANDOFF.md
@@ -33,7 +33,7 @@ A prototype of a top-down superhero/supervillain game inspired by inFamous, GTA 
 - **Frame:** fixed 16:9 and letterboxed.
 - **Setting:** an ordinary rainy city (the user's words: "Grand Theft Auto meets Hey Arnold", New York brick and brownstone, Seattle weather). **The old neon cyberpunk night is gone on purpose: the user found it generic. Do not bring neon back.**
 - **The world's flavour (the user's own description, 2026-11-27; keep to it):** a down-to-earth near future, "solarpunk mixed with dystopian capitalism". Capitalism lasted long enough to make technology powerful enough to fill some of its own holes: people build their own software and hardware with AI help, wire up their own solar panels and grow their own food, and survive what was a slow apocalypse of sorts, yet the city is still a pretty cool place to live. Keep the ordinary modern city look; tech can be strange and inventive (lasers, AI, drones, e.g. solar-panelled drones that shoot electricity), but **never pink/purple/blue neon cyberpunk**. The red laser barricade is fine. Good source of new enemies and environmental hazards.
-- **Machines and hazards (09c_machines.js, drawn in 11k_machines.js), first batch made on the user's free-roam brief; awaiting their picks:** solar street sweepers (team `bot`, harmless, drop energy), spark drones (`zapper`, hover over car parks, telegraphed lightning bolt), repo crawlers (`crawler`, run at you and burst), sentry posts (`sentry`, static turret by each hideout gate, does not hold the gate), loader mechs (`loader`, heavy walker outside each yard, fights like a brute), mites (`mite`, tiny swarm drones; not placed in the world yet), battery banks (`cell`, throwable, burst with electricity and chain), downed power lines (`hazards`, arc on a cycle, hurt anything but civilians). Electricity is pale yellow-white. `node test/machines.js`.
+- **Machines and hazards (09c_machines.js, drawn in 11k_machines.js), first batch made on the user's free-roam brief; awaiting their picks:** solar street sweepers (team `bot`, harmless, drop energy), spark drones (`zapper`, hover over car parks, telegraphed lightning bolt), repo crawlers (`crawler`, run at you and burst), sentry posts (`sentry`, static turret by each hideout gate, does not hold the gate), loader mechs (`loader`, heavy walker outside each yard, fights like a brute), mites (`mite`, tiny swarm drones; not placed in the world yet), battery banks (`cell`, throwable, burst with electricity and chain), downed power lines (`hazards`, arc on a cycle, hurt anything but civilians). Electricity is pale yellow-white. `node test/machines.js`. **Every new object must be drawn in the same isometric projection as the props (oriented `pixBox` boxes via `propFrame`, or `isoXY` shapes), never as a flat front-on sprite.** The user rejected the first, flat version of these machines for exactly that ("we went through all of this before").
 - **Signed off by the user (2026-11-27):** current enemies are fine as placeholders for now; the music, sound effects and soundtrack are fine.
 - **Times of day** (`04b_times.js`): `sunset`, `night` and `day`, each ONLY colours and light (the user was explicit: no sprite or drawing changes). `applyTime(name)` repaints district palettes and each building's wall, roof and window colours, sets the light levels in `LIGHT` (glow, light pools, lamps lit, wash, how green, how light the water) and clears the cached pictures. The user wants to keep all three and use them per story section later. For now it is a setting (Settings → Display → Time of day, `SETTINGS.time`, default sunset, my pick) and `KC.time(name)`. Signs keep their shapes but are painted shop colours (`NEON_GOOD`/`NEON_EVIL` in 04_world.js keep their old names); roof trims are off. `node test/times.js`.
 - **Weather** (`WEATHER` in 04b_times.js): the user wants a rainy city where rain is real weather, not decoration: showers come and go by themselves at any time of day (showers 70–160 s, dry spells 50–110 s, wet about 60% of the time, 6 s fade). Rain streaks, splashes, the rain sound, an overcast wash by day and **umbrellas** all follow `WEATHER.rain`; the user asked for extra care that nobody carries an umbrella when it is dry. `setWeather('rain'|'dry'|'auto')` / `KC.weather(...)` for the story and tests.
